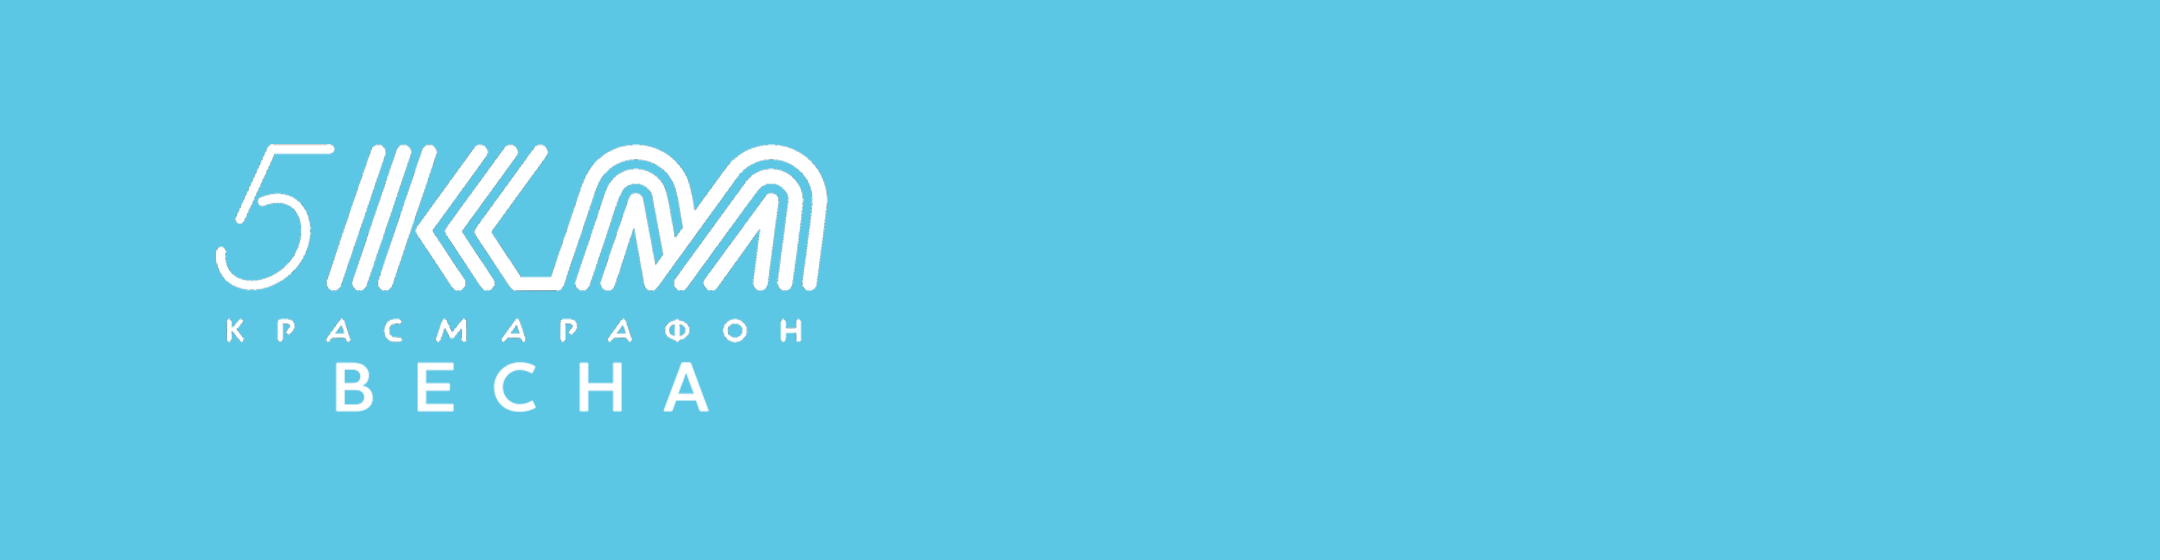
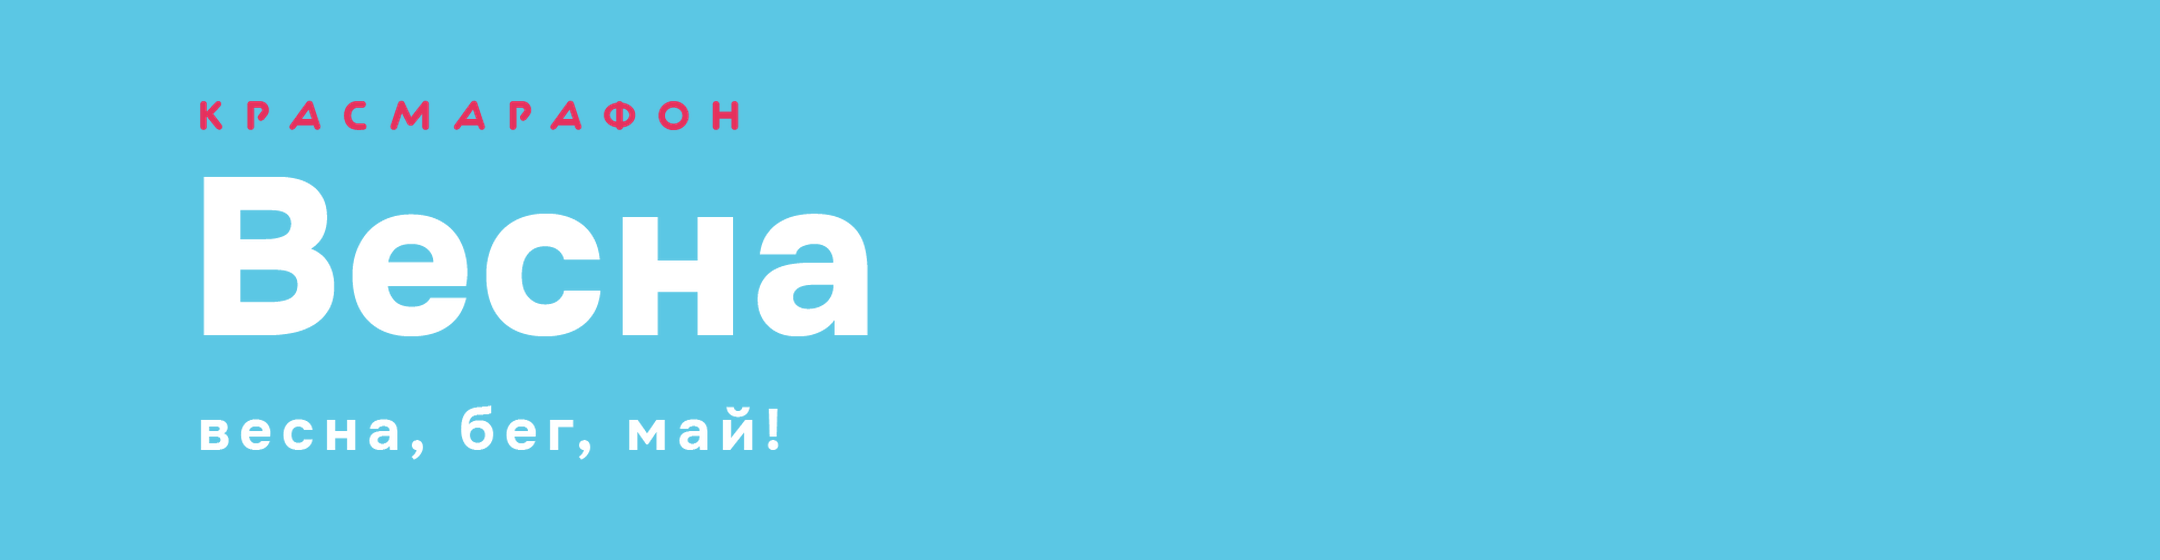
feat(branding): новые логотипы КМ на баннерах событий и плитках анализа забегов
- баннеры 2160×560 и плитки 1600×1600 пересобраны из новых логотипов (фон прежний)
- на розовых фонах (Жара, Детский забег, Женская семерка) логотип целиком белый
- Х Трейл получил логотип (баннер был пустым)
- fix: плитка «Детский Забег.png» не совпадала с CSS по регистру — 404 на проде
- плиткам в CSS добавлена версия: статика кешируется на 7 дней

Changed region(s): [[0.0931, 0.1821, 0.4032, 0.6071], [0.0931, 0.6375, 0.3722, 0.8196]]

diff --git a/static/css/race-analysis.css b/static/css/race-analysis.css
@@ -86,49 +86,49 @@
 
 
 .race-card:nth-child(1) .race-card-image {
-    background-image: url('/static/images/events/logo1x1/Ночной забег.png');
+    background-image: url('/static/images/events/logo1x1/Ночной забег.png?v=20261006');
     background-size: cover;
     background-position: center;
 }
 
 .race-card:nth-child(2) .race-card-image {
-    background-image: url('/static/images/events/logo1x1/Весна.png');
+    background-image: url('/static/images/events/logo1x1/Весна.png?v=20261006');
     background-size: cover;
     background-position: center;
 }
 
 .race-card:nth-child(3) .race-card-image {
-    background-image: url('/static/images/events/logo1x1/Красочный забег.png');
+    background-image: url('/static/images/events/logo1x1/Красочный забег.png?v=20261006');
     background-size: cover;
     background-position: center;
 }
 
 .race-card:nth-child(4) .race-card-image {
-    background-image: url('/static/images/events/logo1x1/Женская семерка.png');
+    background-image: url('/static/images/events/logo1x1/Женская семерка.png?v=20261006');
     background-size: cover;
     background-position: center;
 }
 
 .race-card:nth-child(5) .race-card-image {
-    background-image: url('/static/images/events/logo1x1/Жара.png');
+    background-image: url('/static/images/events/logo1x1/Жара.png?v=20261006');
     background-size: cover;
     background-position: center;
 }
 
 .race-card:nth-child(6) .race-card-image {
-    background-image: url('/static/images/events/logo1x1/Детский забег.png');
+    background-image: url('/static/images/events/logo1x1/Детский забег.png?v=20261006');
     background-size: cover;
     background-position: center;
 }
 
 .race-card:nth-child(7) .race-card-image {
-    background-image: url('/static/images/events/logo1x1/Х Трейл.png');
+    background-image: url('/static/images/events/logo1x1/Х Трейл.png?v=20261006');
     background-size: cover;
     background-position: center;
 }
 
 .race-card:nth-child(8) .race-card-image {
-    background-image: url('/static/images/events/logo1x1/Снежная семерка.png');
+    background-image: url('/static/images/events/logo1x1/Снежная семерка.png?v=20261006');
     background-size: cover;
     background-position: center;
 }
